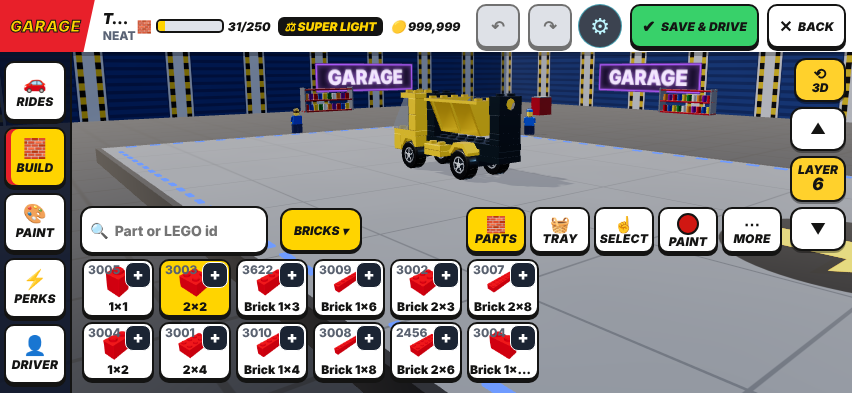
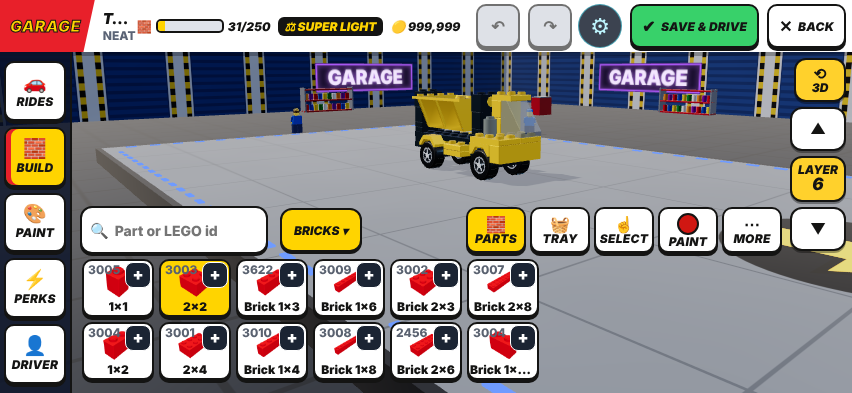
veh: Town Tipper (LEGO 622 Classic Town truck, fix: facing forward with --yaw 3, LDraw by Takeshi Takahashi, CCAL 2.0) as RIDES preset t_v622_1
Claude-Session: https://claude.ai/code/session_01EyTkWHVhqPJ5PdrDtAmH7s

Changed region(s): [[0.4577, 0.2137, 0.6408, 0.458]]

diff --git a/src/98ld_v_622-1.js b/src/98ld_v_622-1.js
@@ -1,7 +1,7 @@
 // ---- LD data: real LEGO builds converted from LDraw OMR files (CCAL 2.0) by tools/ld/ld2garage.py + tools/ld/ld2src.py. Generated, do not edit.
 // Authors of the LDraw files: 622-1.mpd Takeshi Takahashi [RainbowDolphin]Takeshi Takahashi (RainbowDolphin). Details: docs/MODEL_PIPELINE.md.
[1 lines of base64/hex data omitted]
-Object.assign(LD_MODELS,{"v622_1":{"src":"622-1.mpd","by":"Takeshi Takahashi (RainbowDolphin)","n":31,"C":["#1b2a34","#fac80a","~#fcfcfc","#8a928d"],"B":[["ld3832",0,-5,6,1,0,0],["p22",0,-5,5,2,0,0],["ld3787",-1,-3,5,0,0,1],["ld3788",-1,3,5,0,0,1],["p24",-1,0,5,1,0,1],["ld3832",0,-5,4,1,0,0],["p12",2,0,4,0,0,1],["p12",-1,0,4,0,0,1],["ld122",-1,3,2,0,0,0],["ld122",-1,-3,2,0,0,0],["wS",2,2,1,0,0,0,0,-0.25,0],["wS",2,-4,1,0,0,0,0,-0.25,0],["wS",-1,2,1,0,0,0,0,-0.25,0],["wS",-1,-4,1,0,0,0,0,-0.25,0],["p12",0,2,7,3,0,0],["p12",0,-5,7,3,0,0],["p12",0,2,8,3,0,0],["p12",0,-5,8,3,0,0],["p23",-1,3,7,2,0,1],["p23",1,3,7,2,0,1],["b14",-1,5,4,1,0,1],["b12",1,3,8,3,0,1],["b12",0,2,9,3,0,0],["b12",0,-5,9,3,0,0],["b12",1,3,11,3,0,1],["ld3700",0,2,12,0,0,0],["ld3700",0,-5,12,0,0,0],["s65",1,4,8,2,0,2,0,0.062,0],["ld818",-1,-4,8,1,0,1,0,0.25,-0.5],["p22",1,3,14,2,0,1],["round",-1,4,8,0,0,3,0.5,0,-0.5]]}});
+Object.assign(LD_MODELS,{"v622_1":{"src":"622-1.mpd","by":"Takeshi Takahashi (RainbowDolphin)","n":31,"C":["#1b2a34","#fac80a","~#fcfcfc","#8a928d"],"B":[["ld3832",-1,-4,6,3,0,0],["p22",-1,4,5,0,0,0],["ld3787",-2,2,5,2,0,1],["ld3788",-2,-4,5,2,0,1],["p24",-2,-1,5,3,0,1],["ld3832",-1,-4,4,3,0,0],["p12",-2,-1,4,2,0,1],["p12",1,-1,4,2,0,1],["ld122",-2,-4,2,2,0,0],["ld122",-2,2,2,2,0,0],["wS",-2,-5,1,0,0,0,0,-0.25,0],["wS",-2,1,1,0,0,0,0,-0.25,0],["wS",1,-5,1,0,0,0,0,-0.25,0],["wS",1,1,1,0,0,0,0,-0.25,0],["p12",-1,-2,7,1,0,0],["p12",-1,5,7,1,0,0],["p12",-1,-2,8,1,0,0],["p12",-1,5,8,1,0,0],["p23",0,-5,7,0,0,1],["p23",-2,-5,7,0,0,1],["b14",-2,-5,4,3,0,1],["b12",-2,-3,8,1,0,1],["b12",-1,-2,9,1,0,0],["b12",-1,5,9,1,0,0],["b12",-2,-3,11,1,0,1],["ld3700",-1,-2,12,2,0,0],["ld3700",-1,5,12,2,0,0],["s65",-2,-5,8,0,0,2,0,0.062,0],["ld818",-2,-2,8,3,0,1,0,0.25,0.5],["p22",-2,-4,14,0,0,1],["round",1,-4,8,2,0,3,-0.5,0,0.5]]}});
 for(const k of ["ld122", "ld3787", "ld3788", "ld818"]){const D=LD_MESH[k];if(!GB_PC[k]){GB_PC[k]={n:D.n.replace(/^~/,''),w:D.w,d:D.d,h:D.h,cat:'LDraw',ic:'◆',hide:1,s:D.s.some(q=>!q[3])};G13_ID[k]=D.id}}
 {const R=GAR_set('rod'),L=n=>JSON.parse(JSON.stringify(R.load[n]));
  GAR_SETS.push({id:'t_v622_1',n:"Town Tipper (622)",tier:'c',req:null,car:()=>LD_br('v622_1'),off:R.off,boat:R.boat,tpl:1,ref:'622',forms:['car'],
